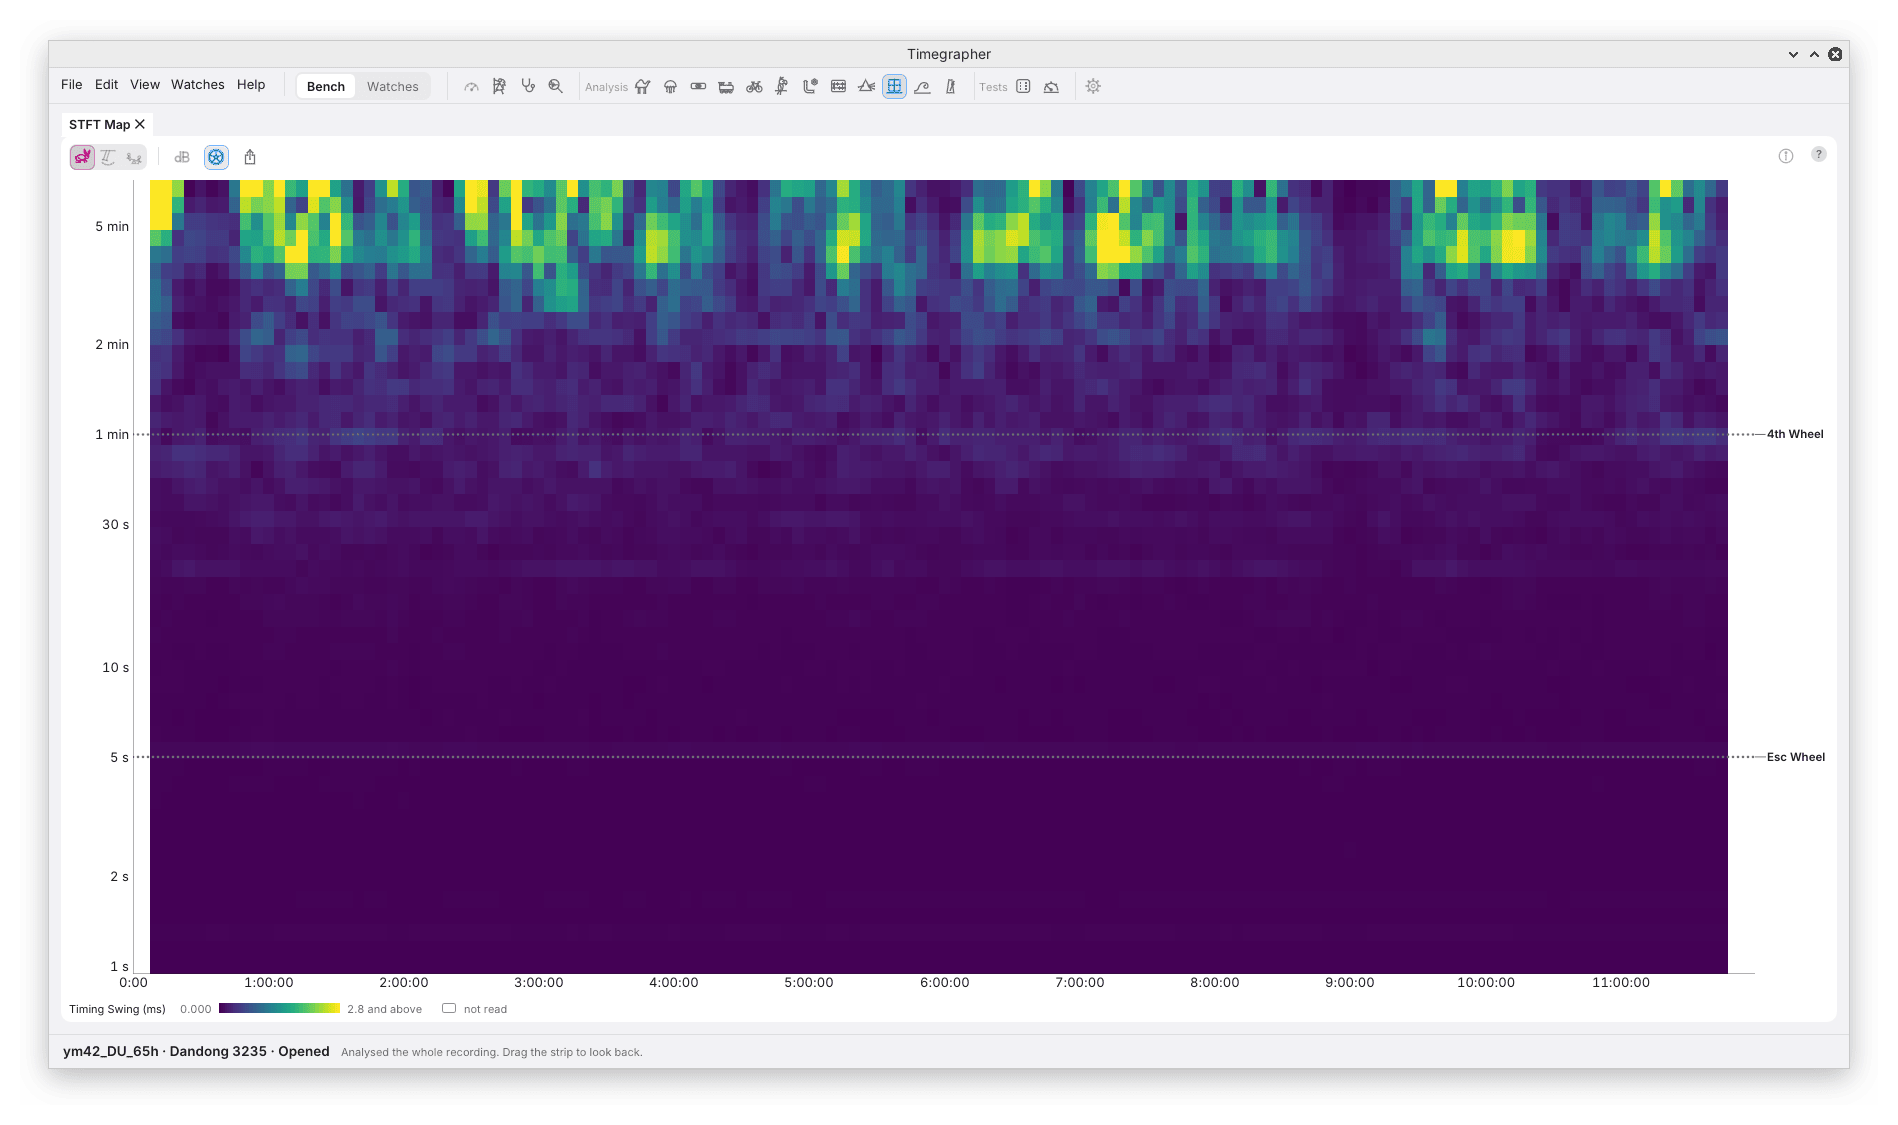
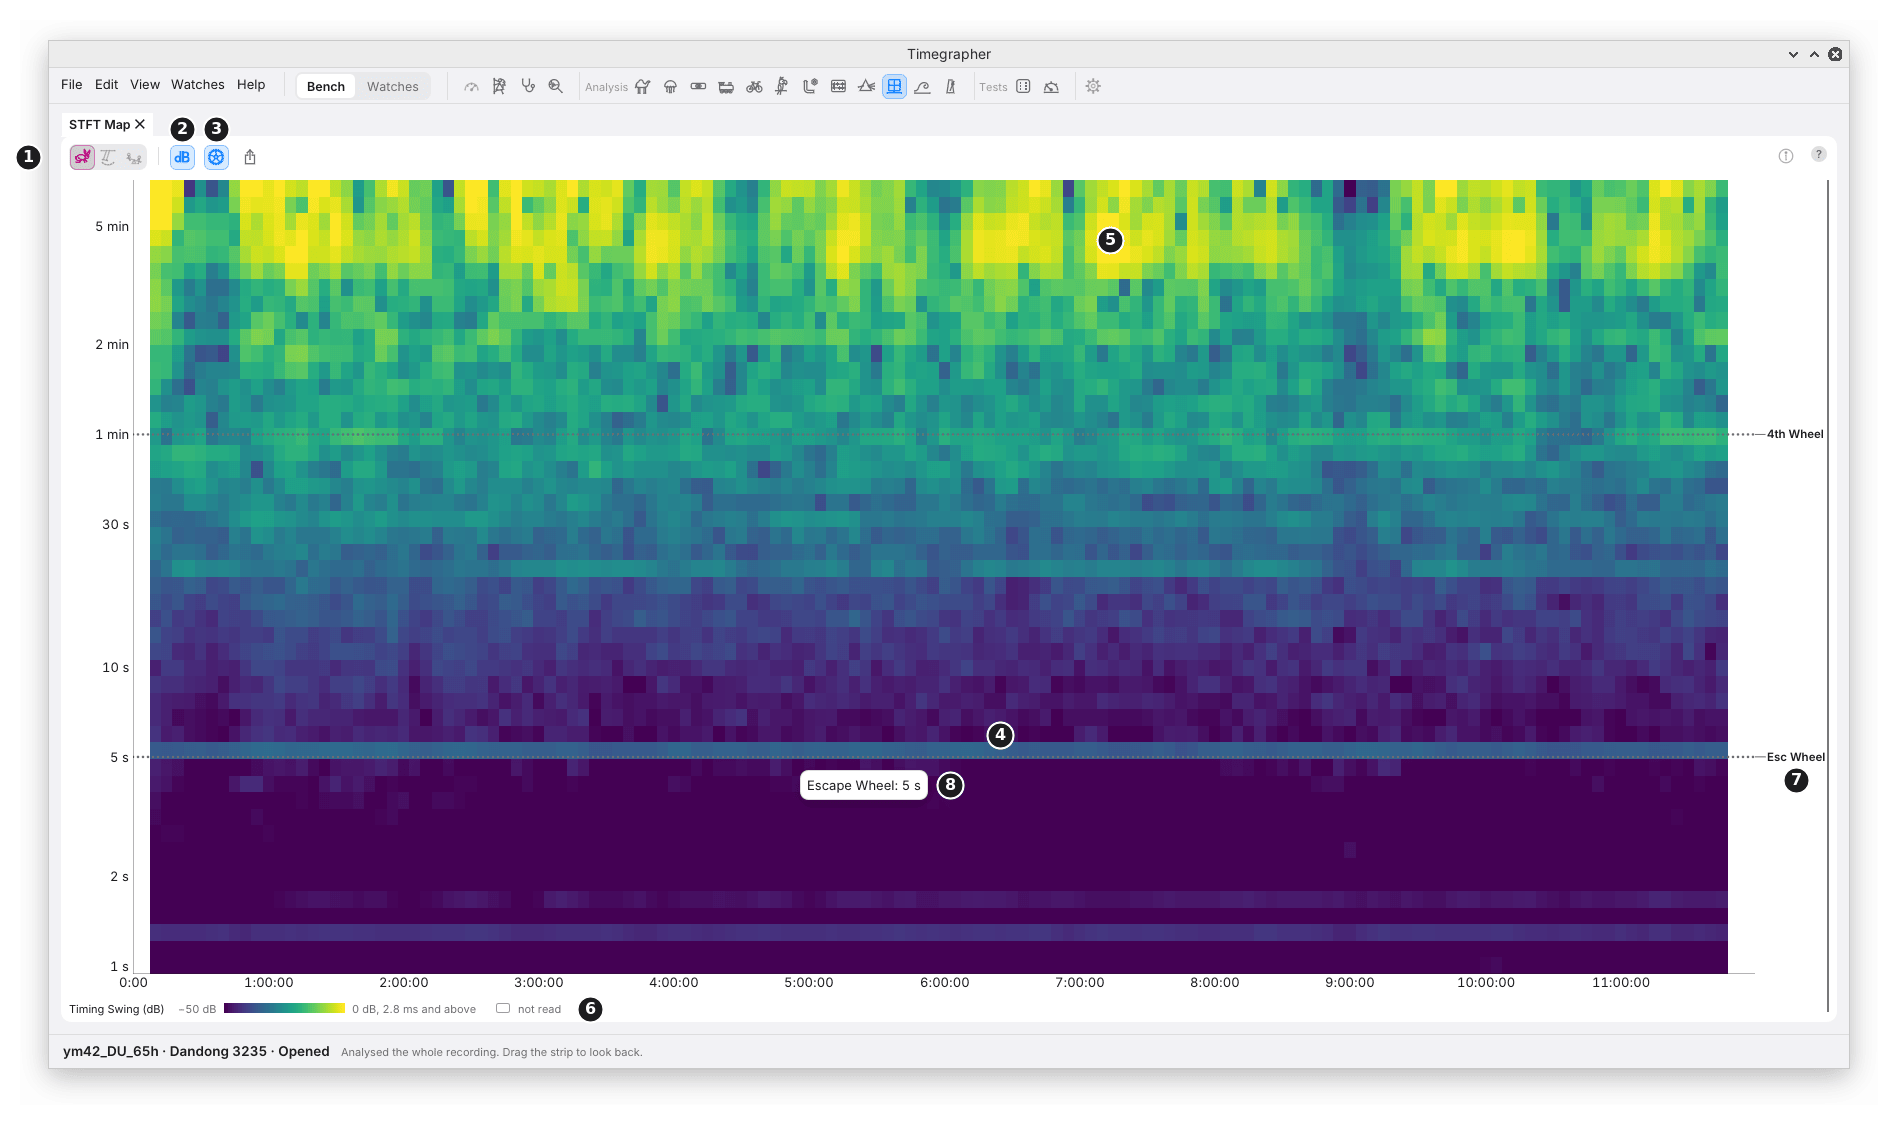
User guide: STFT and Wavelet Maps over 12 hours of the run-down
The STFT Map on the dB scale shows the escape wheel's 5 s line held
through all 12 hours; the Wavelet Map on the plain scale shows the
4-minute swing coming in bursts. Marks and captions to match.

Claude-Session: https://claude.ai/code/session_01QSxqxVf77FmFmJZGMCy8kd

diff --git a/docs/user-guide/17-stft-map.md b/docs/user-guide/17-stft-map.md
@@ -1,6 +1,6 @@
 # 17. STFT Map (Short-Time Fourier Transform)
 
-![STFT Map of the rate's beat timing over the first hour of a long take, marks 1 to 9](images/steady-stft.png)
+![STFT Map of the rate's beat timing on the dB scale, over the first 12 hours of a run-down, marks 1 to 8](images/steady-stft.png)
 
 **What it shows:** the size of each period's swing at each time of the
 take. Up the side is the period, on a log scale, the longest at the top;
@@ -17,11 +17,8 @@ from one row to the next. Use it to see whether a wheel's swing held
 through a take, grew as the mainspring ran down, or stopped after a
 knock.
 
-The picture is the first hour of a 7-hour take on another watch, a
-Dandong 3285, which the app's calibre table gives the 3235's wheel
-periods (the project's [32xx train counts](../32xx-train-wheel-counts.md)
-cover 3230, 3235, 3255 and 3285): the 30-minute take of chapters 9 to 16
-has no 20 minutes without a reading missing.
+The picture is the first 12 hours of the Dandong 3235 run-down from
+chapter 8, with **dB Scale** on.
 
 ## The Toolbar
 
@@ -38,11 +35,26 @@ has no 20 minutes without a reading missing.
 | Mark | Part | What it shows |
 | --- | --- | --- |
 | 4 | A line across | A swing at one period that holds through the take. Here the escape wheel's 5 s, in every window. |
-| 5 | A bright patch | A swing that comes and goes. Here at periods of about 3 to 7 minutes, in the windows centred from 25 to 35 minutes: the beat timing wandering slowly. |
-| 6 | An empty area | Not read. Each column is one 20-minute window, drawn 5 minutes wide at its middle; a window with any reading missing is left empty. Here a gap near 49 minutes empties every window that holds it. |
-| 7 | The key | What the colour measures and its unit: **Timing Swing (ms)** for the rate's map, **Amplitude Swing (°)**, **Beat Error Swing (ms)**. From 0 up to the size 99.5% of the cells read stay under, which the brightest colour shares with every size above it. |
-| 8 | A wheel's name | Short names in a lane right of the map, level with their lines: **4th Wheel**, **Esc Wheel**. The pointer on a wheel's line gives its full name and period, "Escape Wheel: 5 s". |
-| 9 | A cell under the pointer | Its size with its unit, its period and its time: "Timing Swing 0.003 ms · period 4 s · at 20:00". |
+| 5 | A bright patch | A swing that comes and goes. Here at periods of about 3 to 7 minutes: the beat timing wandering slowly, more in some hours than others. |
+| 6 | The key | What the colour measures and its unit: **Timing Swing (ms)** for the rate's map, **Amplitude Swing (°)**, **Beat Error Swing (ms)**. From 0 up to the size 99.5% of the cells read stay under, which the brightest colour shares with every size above it. With **dB Scale** on, as here, "Timing Swing (dB)", from −50 dB to 0 dB, and the size 0 dB stands for: "0 dB, 2.8 ms and above". |
+| 7 | A wheel's name | Short names in a lane right of the map, level with their lines: **4th Wheel**, **Esc Wheel**. |
+| 8 | The pointer on a wheel's line | The wheel's full name and period: "Escape Wheel: 5 s". On a cell, the pointer gives the cell's size with its unit, its period and its time: "Timing Swing 0.003 ms · period 4 s · at 20:00". |
+
+**An empty area** is not read. Each column is one 20-minute window,
+drawn 5 minutes wide at its middle; a window with any reading missing is
+left empty, so a gap empties every window that holds it. The take in the
+picture has none.
+
+**In the picture,** the escape wheel's line at 5 s runs unbroken from
+the first window to the last: a swing of the beat timing once every turn
+of the escape wheel, steady through 12 hours. On the plain scale it
+can't be seen at all: the slow wander at periods of minutes is many
+times bigger, and takes every bright colour. The dB scale gives each
+size its own step, so the small, steady line shows beside the large,
+restless top of the map. A fainter band near 20 s also runs right
+across. Periods (chapter 11) finds the 5 s line in the take as a whole;
+the map adds that it held hour after hour, rather than coming from one
+stretch of the take.
 
 **The rate's map is of the beat timing,** in ms, not of the rate in s/d:
 a swing of the timing at 5 s is far too fast for any rate reading to

diff --git a/docs/user-guide/18-wavelet-map.md b/docs/user-guide/18-wavelet-map.md
@@ -1,6 +1,6 @@
 # 18. Wavelet Map
 
-![Wavelet Map of the rate's beat timing over the first hour of a long take, marks 1 to 7](images/steady-wavelet.png)
+![Wavelet Map of the rate's beat timing over the first 12 hours of a run-down, marks 1 to 5](images/steady-wavelet.png)
 
 **What it shows:** like the STFT Map (chapter 17), the size of each
 period's swing at each time of the take: period up the side, on a log
@@ -18,7 +18,7 @@ longer periods than the STFT Map, up to an hour. Use it to find the
 moment a swing started or stopped, or a brief event, and the STFT Map to
 read how big a swing is.
 
-The picture is the same hour as chapter 17's.
+The picture is the same 12 hours as chapter 17's, on the plain scale.
 
 The toolbar is the STFT Map's (chapter 17): the series, chosen together
 with the STFT Map, **dB Scale** for this map, **Wheel Periods** and
@@ -26,13 +26,25 @@ with the STFT Map, **dB Scale** for this map, **Wheel Periods** and
 
 | Mark | Part | What it shows |
 | --- | --- | --- |
-| 1 | A line across | A swing at one period through the take: here the escape wheel's 5 s, in both stretches. |
+| 1 | Bursts along one period | A swing at one period that comes and goes: here near 4 to 5 minutes, bright in some hours and faint in others. |
 | 2 | The empty edge | Not read. Near each end of a stretch, a period's wavelet would reach past the readings, so the cells there are left empty. Long periods need more room, so the read area is a dome: its **cone of influence**. |
-| 3 | A gap | A break in the readings: each unbroken stretch is read alone, with its own dome. Here near 49 minutes. |
-| 4 | Bright cells at long periods | A slow swing: here the beat timing wandering over several minutes, in the same place as the STFT Map's bright patch. |
-| 5 | A stripe up the map | Something brief that touched every short period at once. |
-| 6 | The key | As the STFT Map's: **Timing Swing (ms)** for the rate's map, from 0 up to the size 99.5% of the cells read stay under. |
-| 7 | A wheel's name | The wheels' short names, level with their lines. |
+| 3 | Bright cells at long periods | A slow swing: here the beat timing wandering over 10 to 40 minutes. |
+| 4 | The key | As the STFT Map's: **Timing Swing (ms)** for the rate's map, from 0 up to the size 99.5% of the cells read stay under. |
+| 5 | A wheel's name | The wheels' short names, level with their lines. |
+
+Two more things can show. **A gap** in the readings splits the map:
+each unbroken stretch is read alone, with its own dome. **A stripe up the
+map** is something brief that touched every short period at once. The
+take in the picture has neither.
+
+**In the picture,** the 4-minute swing that Cycle folds (chapter 12)
+shows as a row of patches near 4 to 5 minutes. It is not steady: it
+comes in bursts, brightest near 1, 5, 6½ to 7 and 10 to 11 hours, and
+faint between, which the Cycle view, laying all 168 cycles together,
+can't show. Above it, swings of 10 to 40 minutes flare and fade: the
+slow wander of the timing, brightest from about 7 to 9 hours. The
+escape wheel's steady 5 s line (chapter 17) is too small to show on
+this scale.
 
 ## How It Is Worked Out
 
